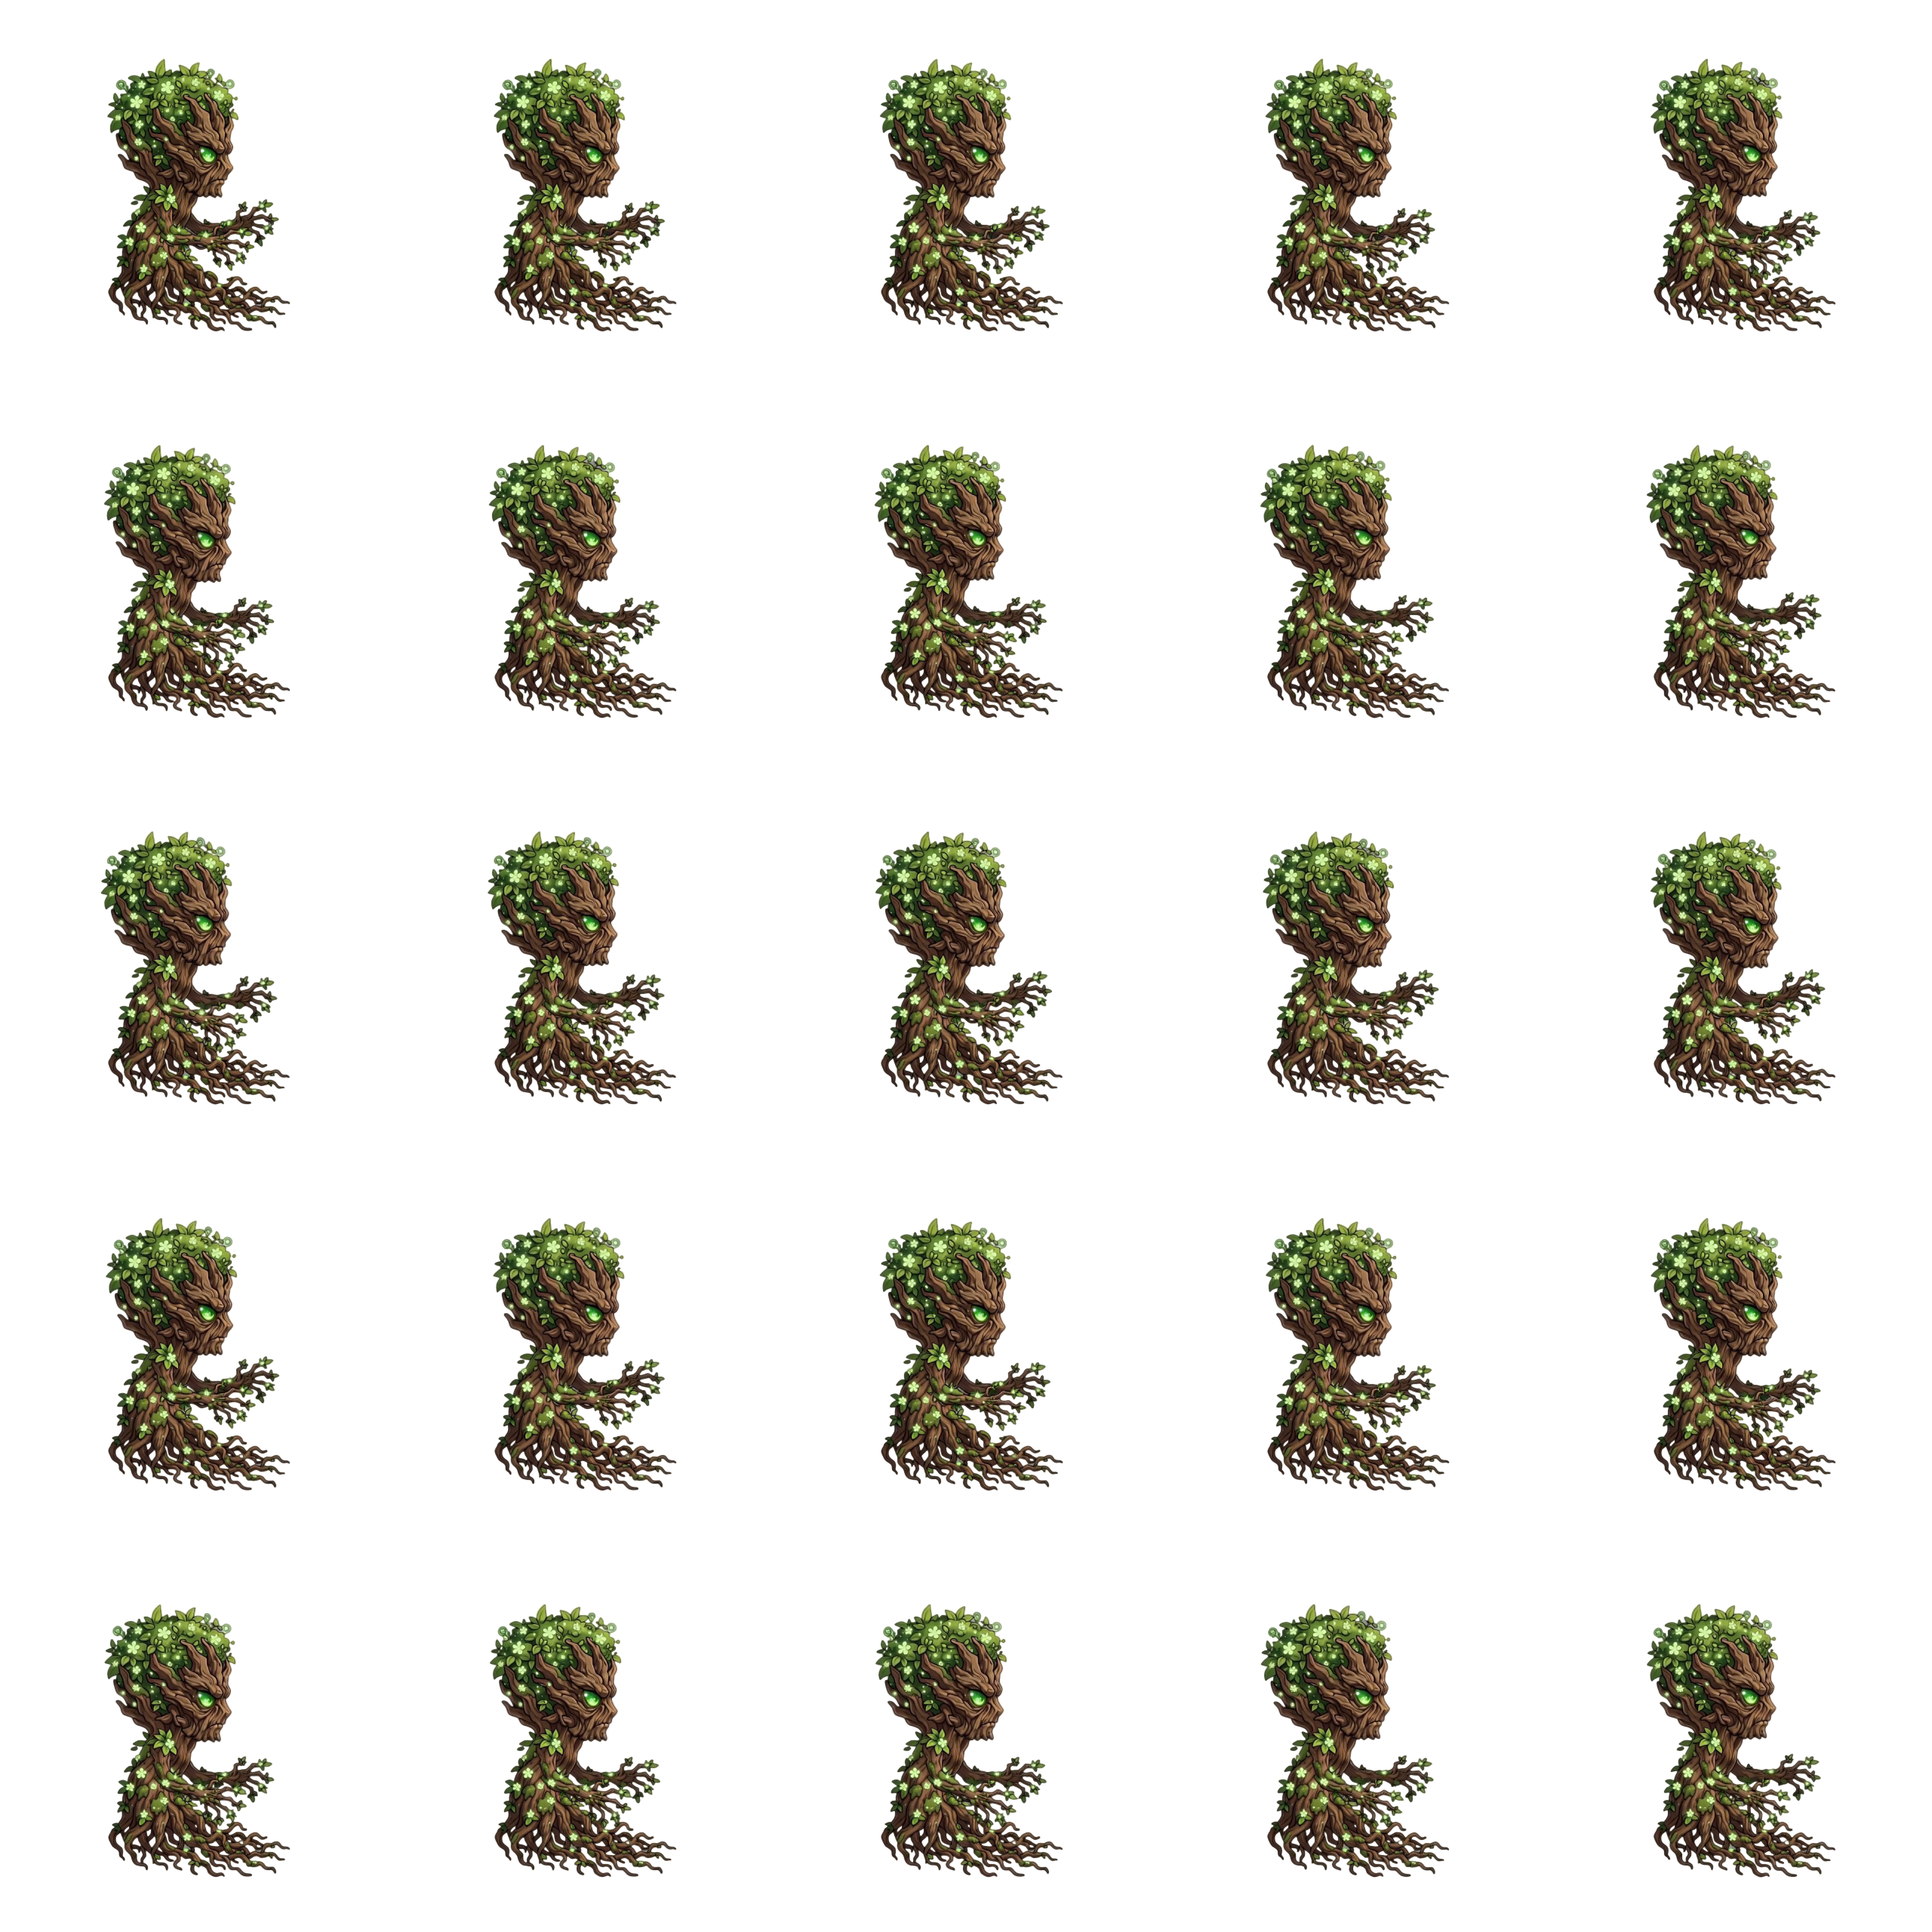
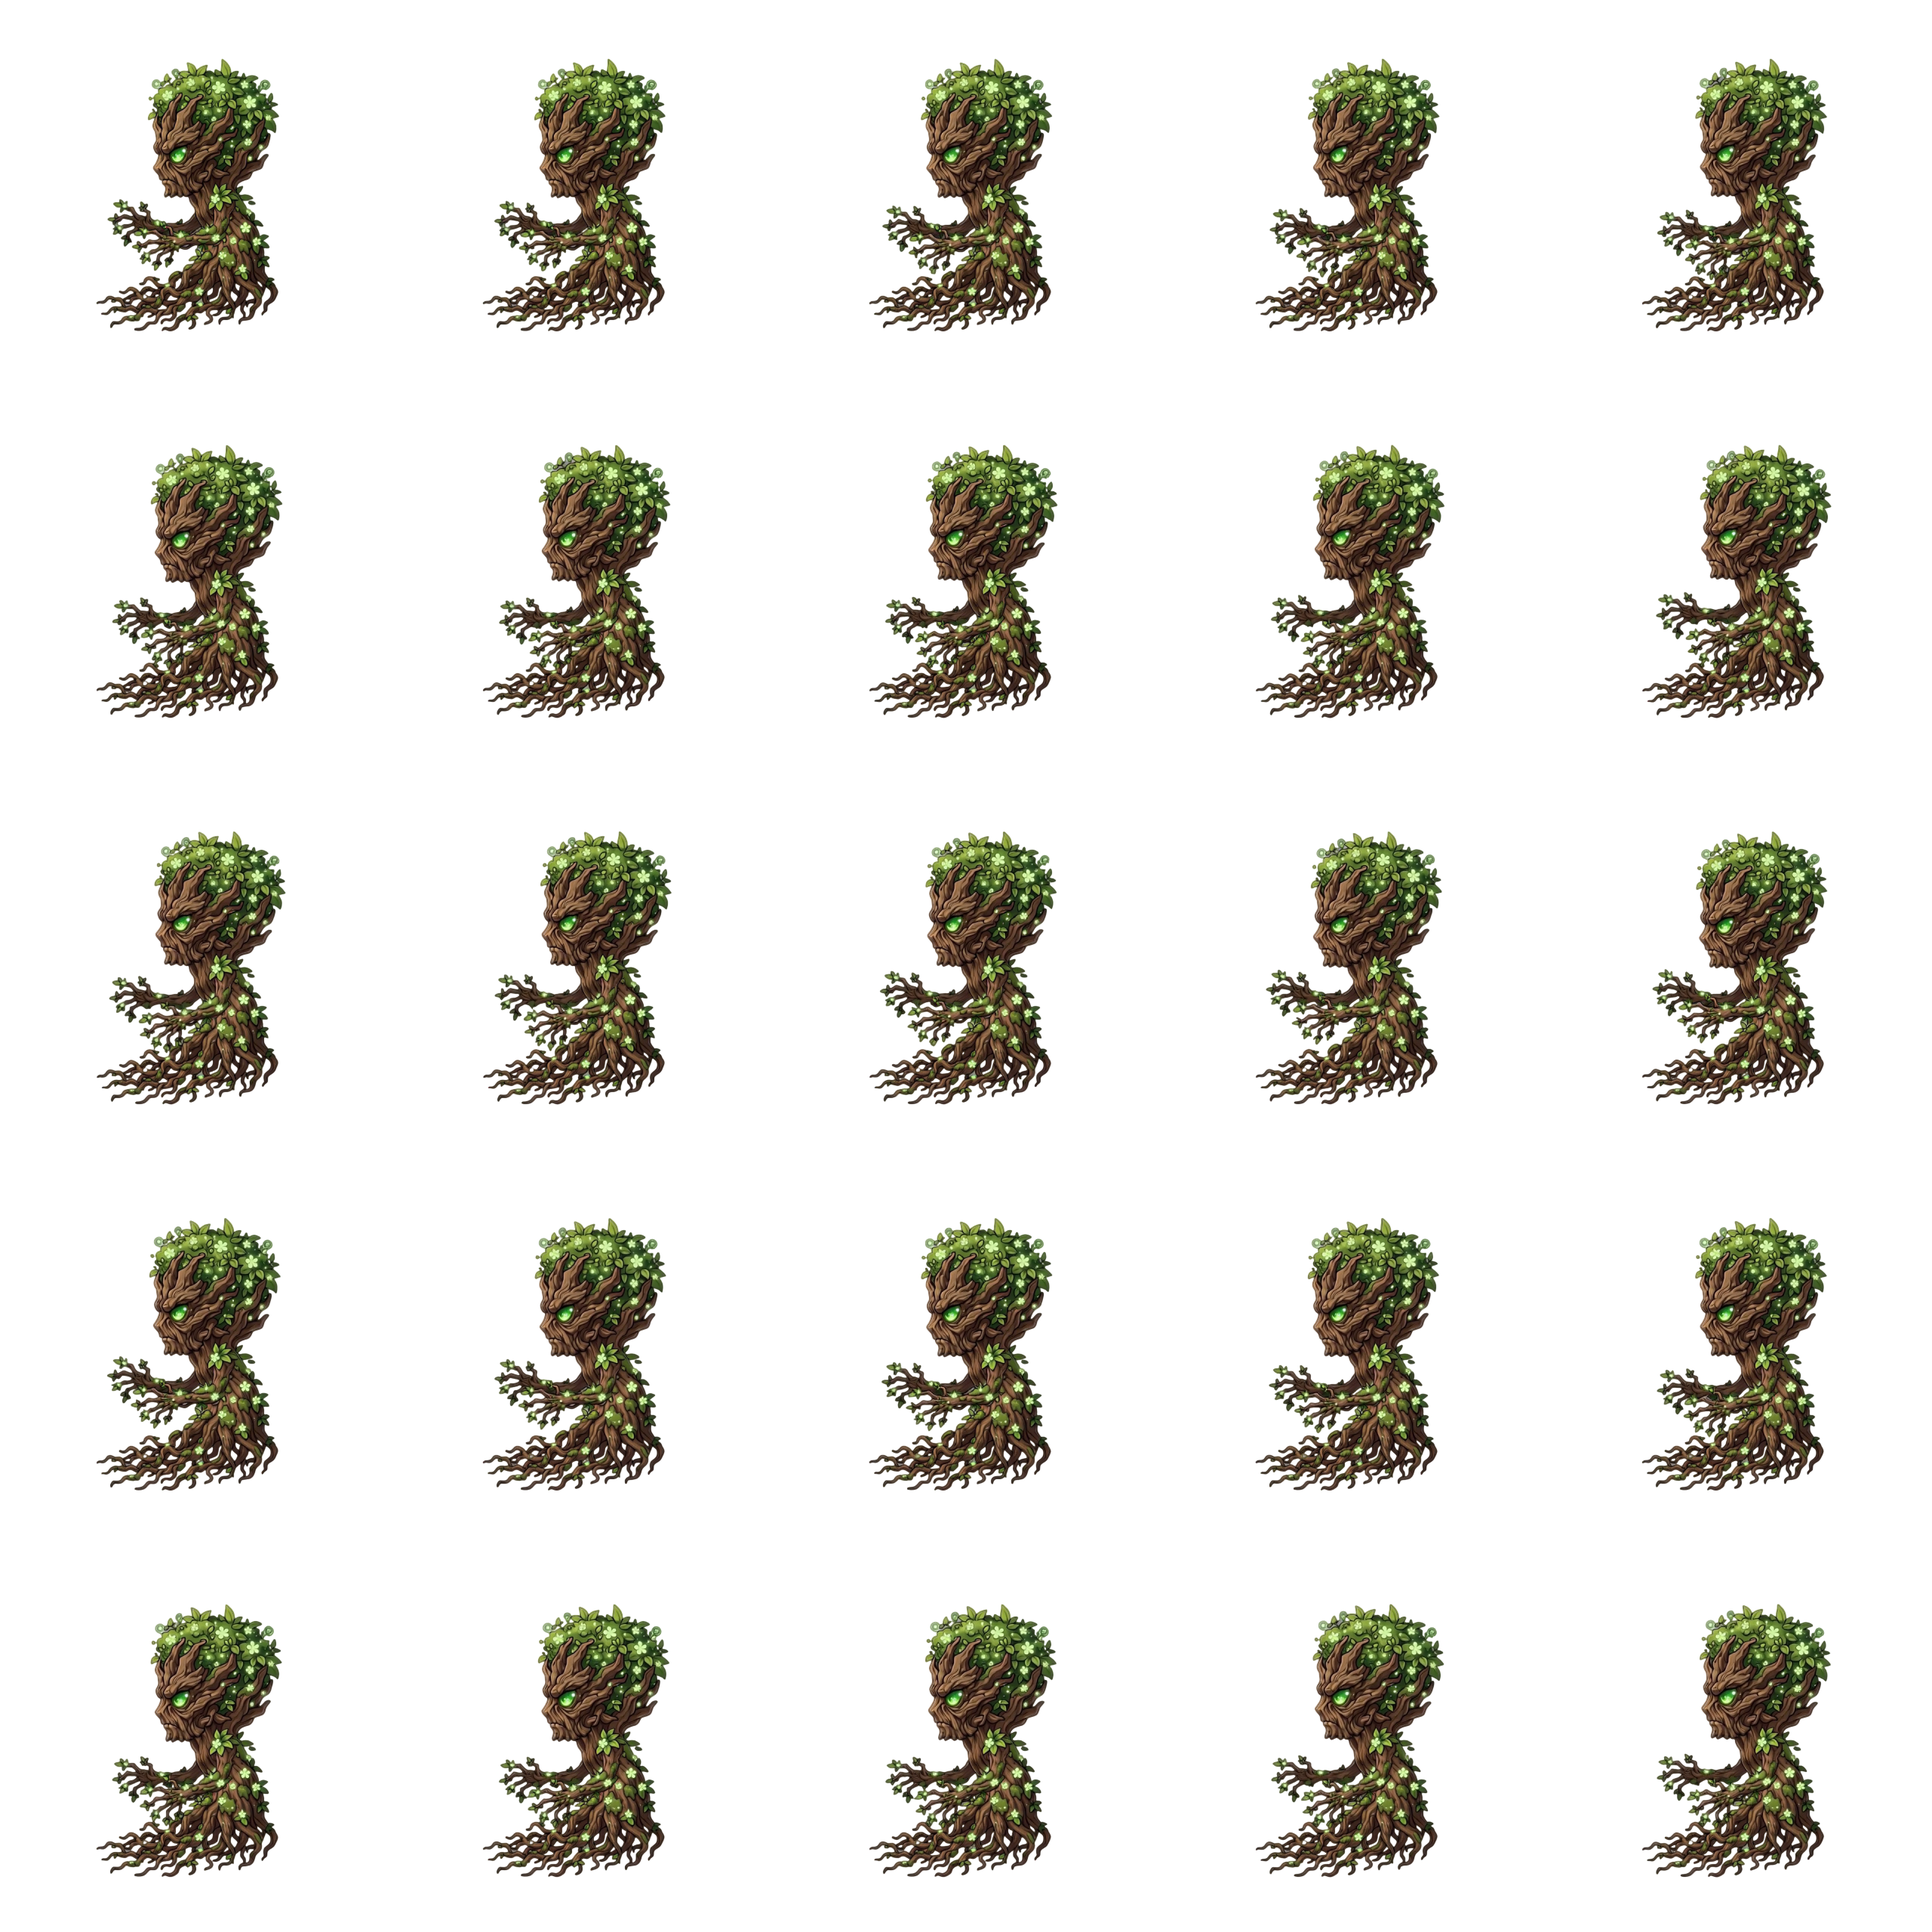
Prompt 158: smaller shield, hide shield on lunge, fix R04 boss facing, raise heal anchor

diff --git a/Match3RPG/Assets/Scripts/Battle/BattleController.cs b/Match3RPG/Assets/Scripts/Battle/BattleController.cs
@@ -459,12 +459,17 @@ namespace Match3RPG.Battle
                 ShowResource(attacker, FloatingTextType.CriticalReady, 1);
 
             bool recovered = attacker == null;
+            bool shieldWasActive = false;
             try
             {
                 if (attacker != null && !rangedAttack)
                 {
                     if (attackVfx == CombatVFXType.Dash)
                         combatVfx?.PlayDash(actor);
+                    shieldWasActive = combatVfx != null
+                        && combatVfx.IsPersistentEffectActive(actor, CombatVFXType.Shield);
+                    if (shieldWasActive)
+                        combatVfx.SetPersistentEffect(actor, CombatVFXType.Shield, false);
                     // Lunge forward once and start the first hit's full attack clip.
                     yield return attacker.BeginAttackSequence(1, 0f, 0f);
                 }
@@ -540,6 +545,8 @@ namespace Match3RPG.Battle
             {
                 if (!recovered && attacker != null)
                     attacker.CancelAttackSequence();
+                if (shieldWasActive && combatVfx != null && GetShield(actor) > 0 && !IsGameOver)
+                    combatVfx.SetPersistentEffect(actor, CombatVFXType.Shield, true);
                 if (rageCritical)
                     SetRage(actor, 0);
                 Refresh();

diff --git a/Match3RPG/Assets/Scripts/Core/GameBootstrap.cs b/Match3RPG/Assets/Scripts/Core/GameBootstrap.cs
@@ -943,7 +943,7 @@ namespace Match3RPG.Core
             RectTransform headVfxAnchor = CreateRect("HeadVFXAnchor", characterRoot,
                 headVfxAnchorPosition ?? new Vector2(.5f, .82f),
                 headVfxAnchorPosition ?? new Vector2(.5f, .82f), Vector2.zero, Vector2.zero);
-            const float healAnchorY = 0.35f;
+            const float healAnchorY = 0.42f;
             RectTransform healAnchor = CreateRect("HealAnchor", visualRect,
                 new Vector2(.5f, healAnchorY),
                 new Vector2(.5f, healAnchorY), Vector2.zero, Vector2.zero);

diff --git a/Match3RPG/Assets/Editor/CharacterContentBuilder.cs b/Match3RPG/Assets/Editor/CharacterContentBuilder.cs
@@ -704,7 +704,7 @@ namespace Match3RPG.Editor
                 case "BossSpiritMountainTortoise":
                     ids = new[] { "region_04_boss_04", "region_04_boss_09" };
                     displayName = "Rùa Núi Linh";
-                    sourceFacing = CharacterFacing.Left;
+                    sourceFacing = CharacterFacing.Right;
                     break;
                 case "BossJadeForestDragon":
                     ids = new[] { "region_04_boss_05", "region_04_boss_10" };

diff --git a/Match3RPG/Assets/Scripts/Battle/CombatVFXManager.cs b/Match3RPG/Assets/Scripts/Battle/CombatVFXManager.cs
@@ -494,7 +494,7 @@ namespace Match3RPG.Battle
         {
             switch (type)
             {
-                case CombatVFXType.Shield: return new Vector2(460f, 460f);
+                case CombatVFXType.Shield: return new Vector2(360f, 360f);
                 case CombatVFXType.Stun: return new Vector2(145f, 100f);
                 case CombatVFXType.Burn: return new Vector2(210f, 225f);
                 case CombatVFXType.Freeze: return new Vector2(215f, 235f);
